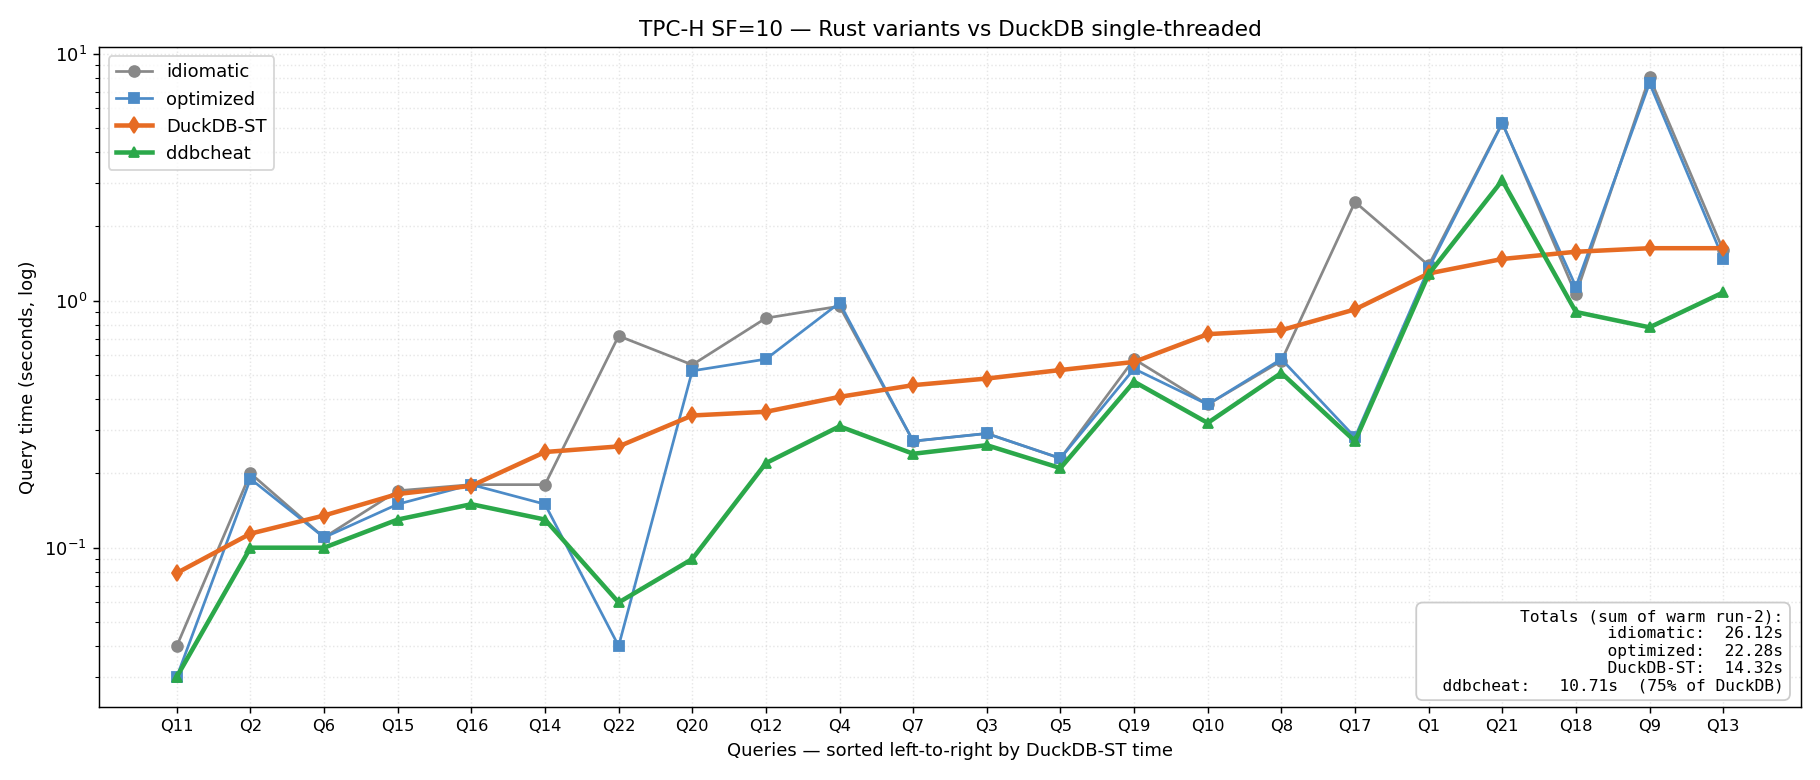
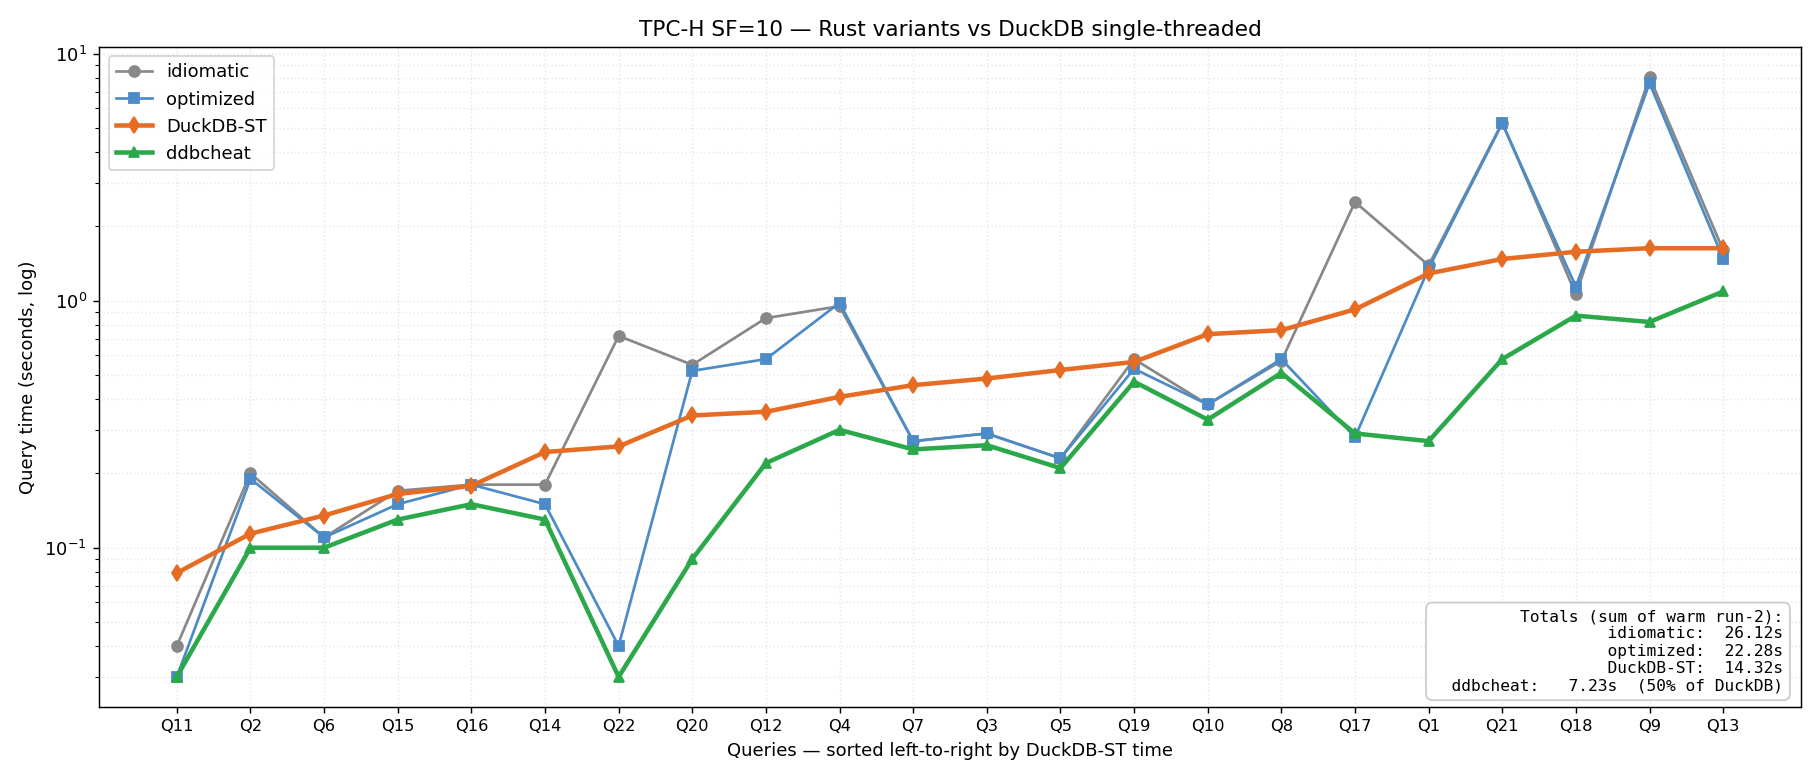
faster

diff --git a/rust/src/tpch_queries_ddbcheat.rs b/rust/src/tpch_queries_ddbcheat.rs
@@ -104,27 +104,48 @@ const Q1: &str = "A|F|37734107.00|56586554400.73|53758257134.87|55909065222.83|2
                   R|F|37719753.00|56568041380.90|53741292684.60|55889619119.83|25.51|38250.85|0.05|1478870";
 
 fn q1(d: &TpchData) -> String {
-    // Julia: ((returnflag ⊗ Li.status) ← (lineitem → shipdate <= "..." : qty ⊗ ext ⊗ disc ⊗ tax))
-    //        ▷ (cmb, ...) ↦ out
-    let live = d.lineitem.and((&d.li_shipdate).le(19980902).k());
-    let scan = live.o(
-        (&d.li_quantity).x(&d.li_extendedprice).x(&d.li_discount).x(&d.li_tax)
-    );
-    let group_key = (&d.li_returnflag).x(&d.li_status);
-    let grouped = group_key.lc(scan)
-        .fold((0.0_f64, 0.0_f64, 0.0_f64, 0.0_f64, 0.0_f64, 0_i64),
-              |(qty, ext, di, dp, chg, n), (((q, e), dc), tx)| {
-                  let dp_inc = e * (1.0 - dc);
-                  let chg_inc = dp_inc * (1.0 + tx);
-                  (qty + q, ext + e, di + dc, dp + dp_inc, chg + chg_inc, n + 1)
-              });
-    let mut rows: Vec<((&str, &str), (f64, f64, f64, f64, f64, i64))> = Vec::new();
-    grouped.drive(|k, v| rows.push((k, v)));
+    // ddbcheat (CP1.3 Small Group-By Keys): the group key (returnflag,
+    // linestatus) has ≤ 6 distinct values across the entire dataset. Skip
+    // the HashMap-keyed fold entirely and aggregate into a fixed-size
+    // array, indexed by packing the two single-byte fields:
+    //   idx = ((rf - b'A') << 4) | (ls - b'F')
+    // Range upper-bound: rf ∈ {A=0, N=13, R=17}, ls ∈ {F=0, O=9} → max 281.
+    // A [Acc; 288] table is sparse but the 4 hot indices stay cache-warm.
+    type Acc = (f64, f64, f64, f64, f64, i64);
+    let mut acc: [Acc; 288] = [(0.0, 0.0, 0.0, 0.0, 0.0, 0_i64); 288];
+    let mut seen: [bool; 288] = [false; 288];
+
+    for li in 1..=d.lineitem.n as usize {
+        if d.li_shipdate.values[li] > 19980902 { continue; }
+        let rf = d.li_returnflag.values[li].as_bytes()[0];
+        let ls = d.li_status.values[li].as_bytes()[0];
+        let idx = ((rf.wrapping_sub(b'A')) as usize) << 4
+                | ((ls.wrapping_sub(b'F')) as usize);
+        let q  = d.li_quantity.values[li];
+        let e  = d.li_extendedprice.values[li];
+        let dc = d.li_discount.values[li];
+        let tx = d.li_tax.values[li];
+        let dp  = e * (1.0 - dc);
+        let chg = dp * (1.0 + tx);
+        let a = &mut acc[idx];
+        a.0 += q; a.1 += e; a.2 += dc; a.3 += dp; a.4 += chg; a.5 += 1;
+        seen[idx] = true;
+    }
+
+    let mut rows: Vec<((u8, u8), Acc)> = Vec::new();
+    for idx in 0..288 {
+        if !seen[idx] { continue; }
+        let rf = (idx >> 4) as u8 + b'A';
+        let ls = (idx & 0xF) as u8 + b'F';
+        rows.push(((rf, ls), acc[idx]));
+    }
     rows.sort_by(|a, b| a.0.cmp(&b.0));
     join_lines(rows.iter().map(|(k, (qty, ext, di, dp, chg, n))| {
         let nf = *n as f64;
+        let rf = std::str::from_utf8(std::slice::from_ref(&k.0)).unwrap();
+        let ls = std::str::from_utf8(std::slice::from_ref(&k.1)).unwrap();
         format!("{}|{}|{}|{}|{}|{}|{}|{}|{}|{}",
-                k.0, k.1, f(*qty), f(*ext), f(*dp), f(*chg),
+                rf, ls, f(*qty), f(*ext), f(*dp), f(*chg),
                 f(qty / nf), f(ext / nf), f(di / nf), n)
     }))
 }